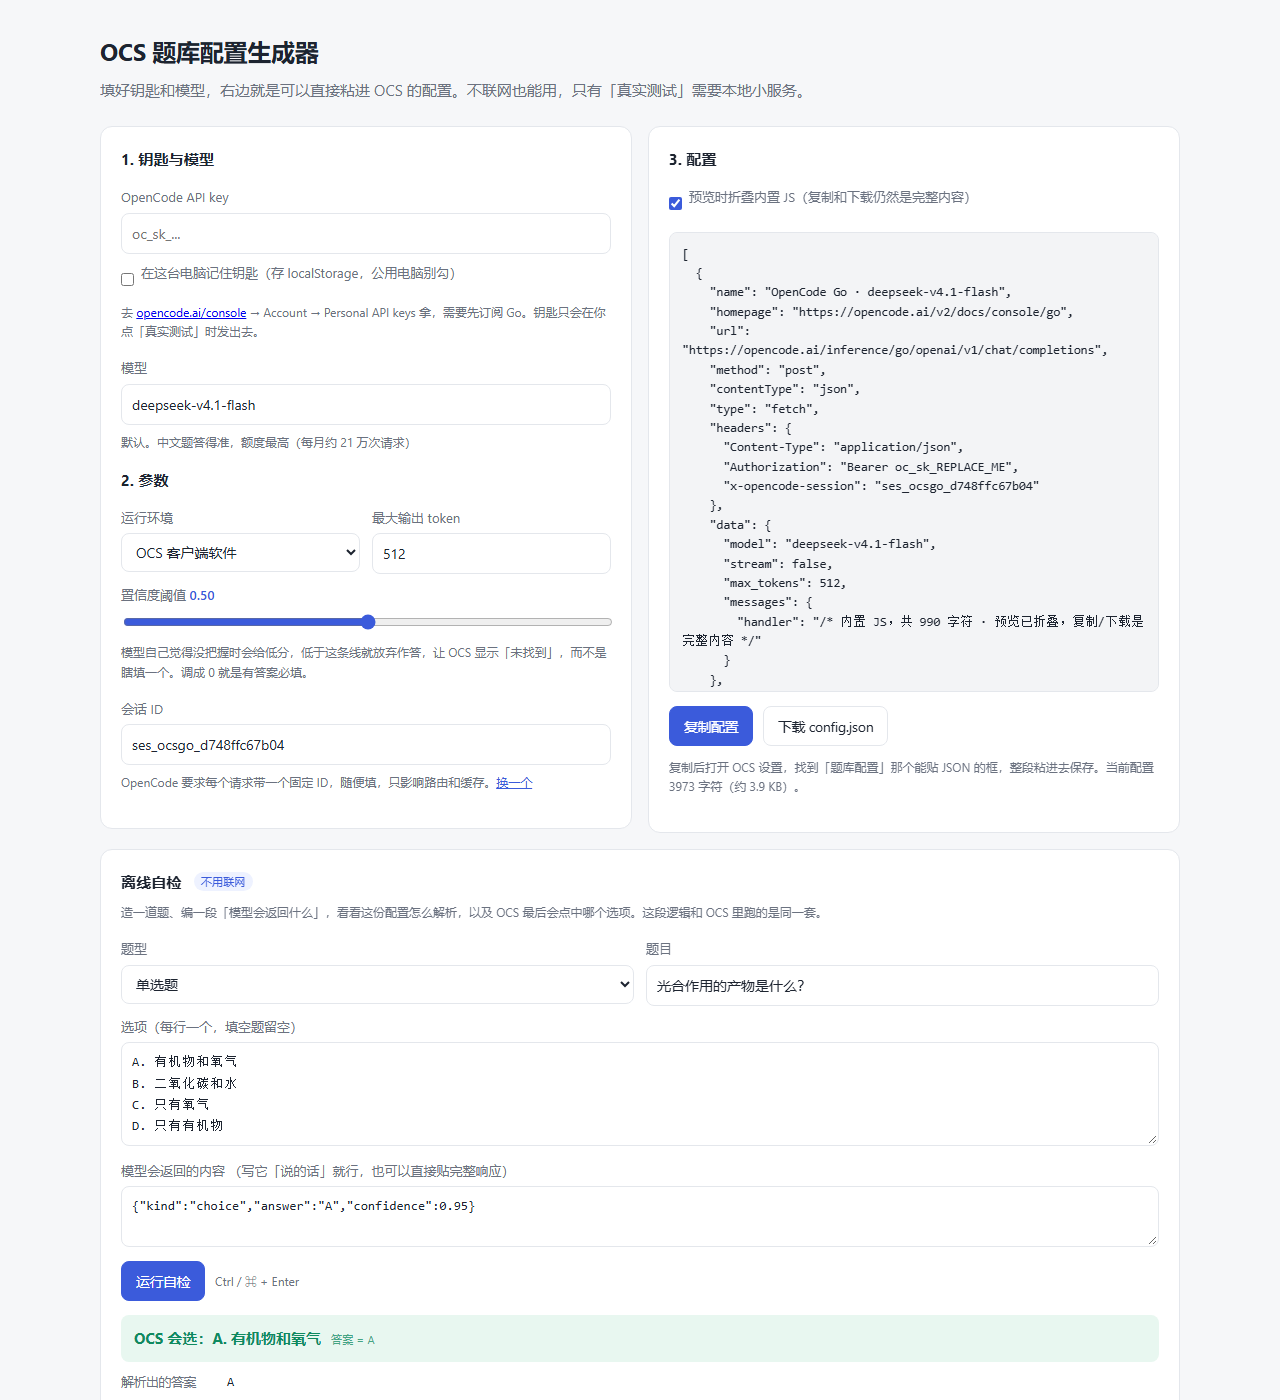
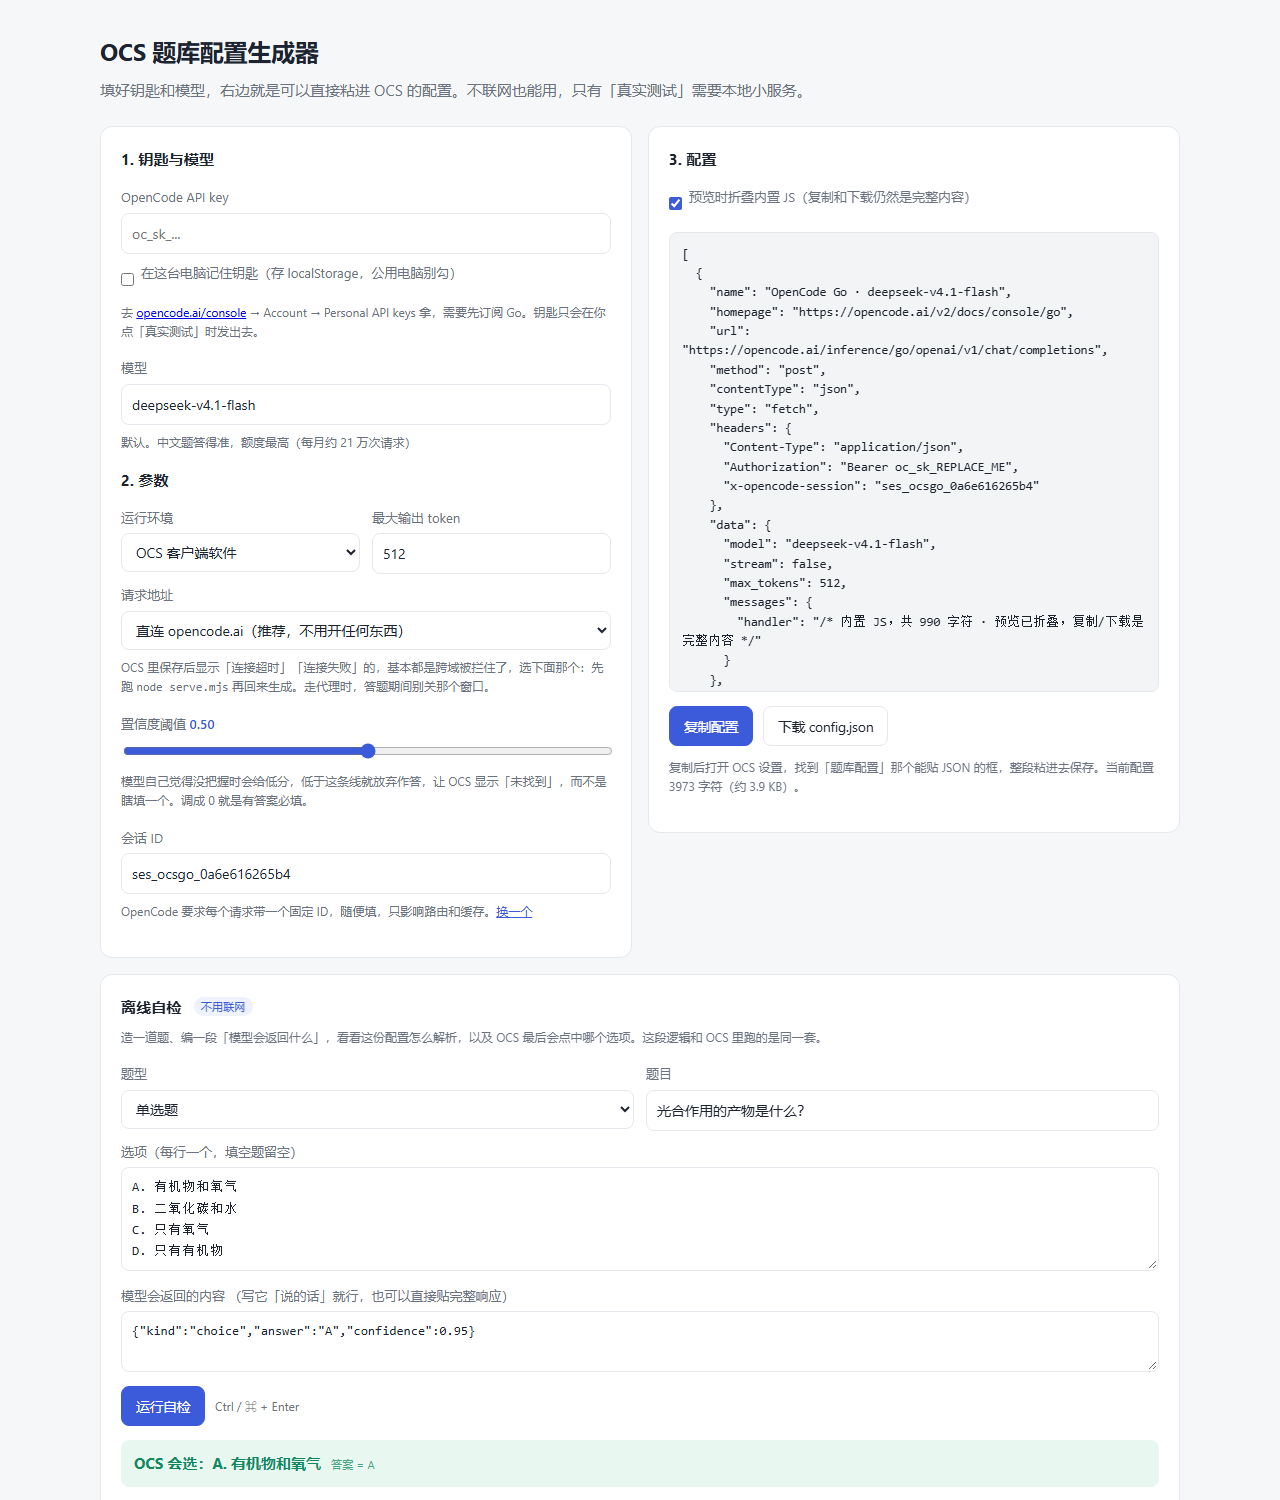
feat: 加本地代理模式，解决 OCS 里「连接超时」
OCS 软件保存题库配置时报连接超时，本质是跨域被拦、请求没发出去。
现在 serve.mjs 多开了一个 /v1/chat/completions 转发口（带 CORS 头），
把配置的 url 指到 127.0.0.1 即可绕开：

- 网页版：请求地址选「走本地代理」
- 命令行：node build.mjs --proxy
- README 的报错表补上这一条

diff --git a/web/index.html b/web/index.html
@@ -160,6 +160,15 @@
       </div>
 
       <label>
+        请求地址
+        <select id="endpoint">
+          <option value="direct">直连 opencode.ai（推荐，不用开任何东西）</option>
+          <option value="proxy">走本地代理 127.0.0.1:8787</option>
+        </select>
+      </label>
+      <p class="hint">OCS 里保存后显示「连接超时」「连接失败」的，基本都是跨域被拦住了，选下面那个：先跑 <code>node serve.mjs</code> 再回来生成。走代理时，答题期间别关那个窗口。</p>
+
+      <label>
         置信度阈值 <span class="pill" id="confVal">0.50</span>
         <input id="confidence" type="range" min="0" max="1" step="0.05" value="0.5" />
       </label>
@@ -287,6 +296,7 @@ D. 只有有机物</textarea>
     if (!saved) return;
     if (saved.model) $('model').value = saved.model;
     if (saved.envType) $('envType').value = saved.envType;
+    if (saved.endpoint) $('endpoint').value = saved.endpoint;
     if (saved.maxTokens) $('maxTokens').value = saved.maxTokens;
     if (saved.confidence !== undefined) $('confidence').value = saved.confidence;
     if (saved.session) $('session').value = saved.session;
@@ -297,6 +307,7 @@ D. 只有有机物</textarea>
     var data = {
       model: $('model').value.trim(),
       envType: $('envType').value,
+      endpoint: $('endpoint').value,
       maxTokens: Number($('maxTokens').value) || 512,
       confidence: Number($('confidence').value),
       session: $('session').value.trim(),
@@ -306,7 +317,7 @@ D. 只有有机物</textarea>
   }
 
   function bind() {
-    ['model', 'envType', 'maxTokens', 'confidence', 'session', 'remember', 'collapse'].forEach(function (id) {
+    ['model', 'envType', 'maxTokens', 'confidence', 'session', 'remember', 'collapse', 'endpoint'].forEach(function (id) {
       $(id).addEventListener('input', function () { persist(); render(); });
       $(id).addEventListener('change', function () { persist(); render(); });
     });
@@ -342,6 +353,10 @@ D. 只有有机物</textarea>
     var wrapper = JSON.parse(JSON.stringify(window.OCS_WRAPPER));
     wrapper.name = 'OpenCode Go · ' + model;
     wrapper.type = $('envType').value;
+    if ($('endpoint').value === 'proxy') {
+      wrapper.url = 'http://127.0.0.1:8787/v1/chat/completions';
+      wrapper.name += '（本地代理）';
+    }
     wrapper.headers.Authorization = 'Bearer ' + key;
     wrapper.headers['x-opencode-session'] = $('session').value.trim() || 'ses_ocsgo_web';
     wrapper.data.model = model;
